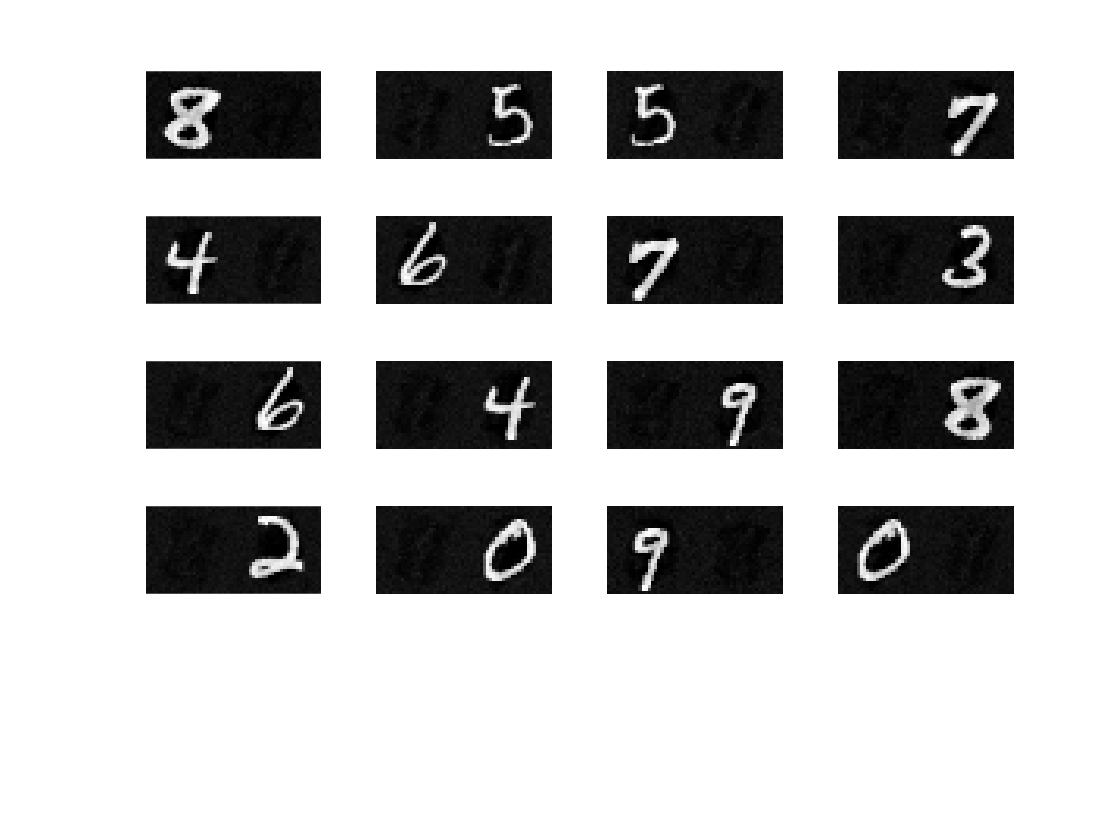
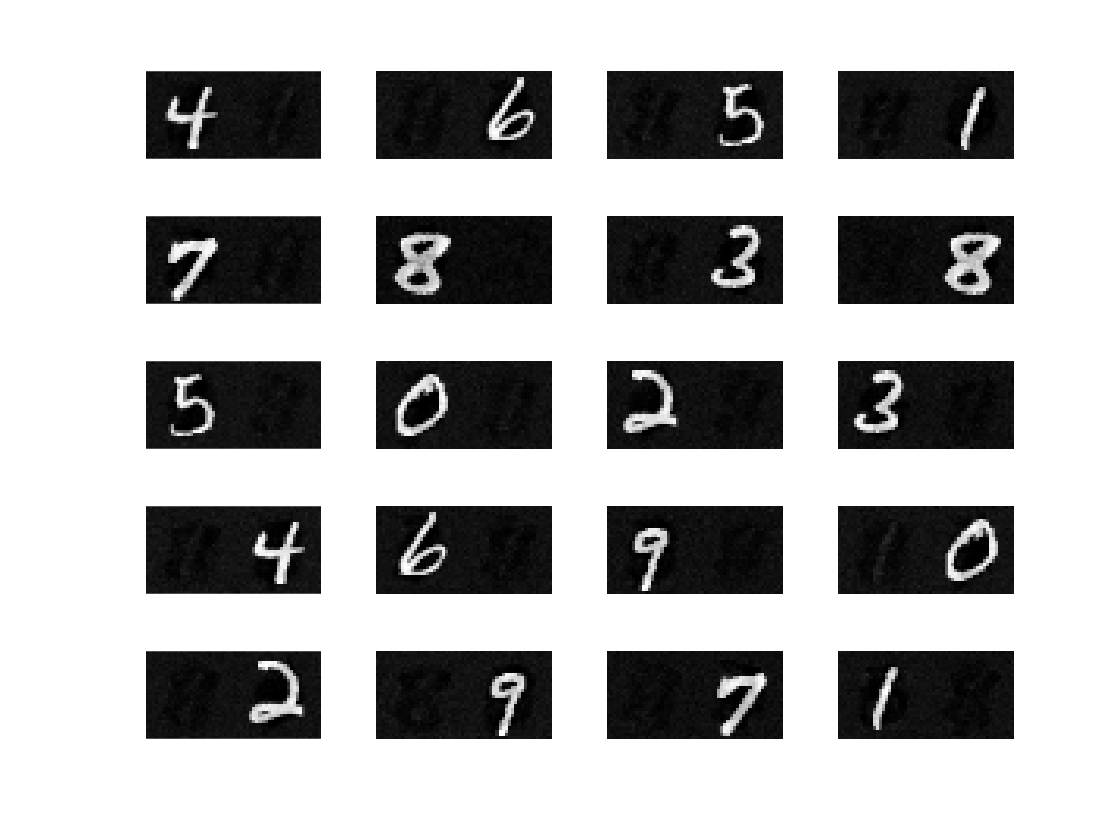
writing

diff --git a/test_release/submission/daming_MNIST_TrainDL.m b/test_release/submission/daming_MNIST_TrainDL.m
@@ -13,12 +13,16 @@ X=X';
 
 %% Create noisy data
 A=[];
+% sigma=0.25;
 sigma=0.25;
+
 for l=1:10
     X1=X+sigma*abs(randn(size(X)));  %--Absolute Gaussian noise
    %X1=X+mat2gray(poissrnd(sigma,size(X))); %--Poisson Noise
     A=[A;X1];
 end
+
+%-%-%-%-%-%-%-%-%-%-%-%-%-%-%-%-%-%-%-%-%-%-%-%-%-%-%-%-%-%-%-%-%-%-%-%-%
 %% UoI_NMF
 %--Parameters
 params.k=20;       % Rank k of the factorization
@@ -41,7 +45,7 @@ nnzH1=median(sum(abs(H1)>0.05,2));
 Aest=W1*H1;
 %%--plot basis and bases quality
 figure()
-for i=1:16
+for i=1:20
     subplot(5,4,i)
      H11(i,:)=mat2gray(H1(i,:));
      imshow((reshape(H11(i,:),[],56)));
@@ -99,7 +103,7 @@ er1=norm(X-Wnew1*H1,'fro')  %% reconstruction error with original data
 param.K=20;  % learns a dictionary with 100 elements
 param.lambda=0.15;
 param.numThreads=-1; % number of threads
-param.batchsize=5;
+param.batchsize=15;
 param.verbose=false;
 
 param.iter=1000;  % let us see what happens after 1000 iterations.
@@ -118,8 +122,10 @@ tic
 t=toc;
 fprintf('time of computation for Dictionary Learning: %f\n',t);
 fprintf('Evaluating cost function...\n');
-alpha=mexLasso(X,D,param);
-R=mean(0.5*sum((X-D*alpha).^2)+param.lambda*sum(abs(alpha)));
+% alpha=mexLasso(X,D,param);
+alpha=mexLasso(A,D,param);
+% R=mean(0.5*sum((X-D*alpha).^2)+param.lambda*sum(abs(alpha)));
+R=mean(0.5*sum((A-D*alpha).^2)+param.lambda*sum(abs(alpha)));
 fprintf('objective function: %f\n',R);
 tic
 
@@ -127,7 +133,7 @@ tic
 figure('Name','2-D MNIST dictionary atoms')
 for i=1:20
 %     fprintf('%d. Hello world!\n', i);
-    subplot(4,5,i)
+    subplot(5,4,i)
     row1matfull = full(reshape(alpha(i,:),[],56));
     imshow(row1matfull);
 end
@@ -138,7 +144,7 @@ Aest=D*alpha;
 alpha = full(alpha);
 %%--plot basis and bases quality
 figure()
-for i=1:16
+for i=1:20
     subplot(5,4,i)
      alpha1(i,:)=mat2gray(alpha(i,:));
      imshow((reshape(alpha1(i,:),[],56)));
@@ -148,6 +154,7 @@ C1=normc(alpha*Hopt');
 [corr1,id1]=max(C1,[],2);
 
 Hl1=[];j1=[];
+k=size(Hopt,1);
 for j=1:k
     i1=find(id1==j);
     if numel(i1)==0
@@ -184,8 +191,8 @@ eer1=norm(A-Aest,'fro') %% reconstruction error with noisy data
 
 
 for l=1:size(X)
-    Wnew1(l,:)= lsqnonneg(H1',X(l,:)')';
+    Wnew1(l,:)= lsqnonneg(alpha',X(l,:)')';
 end
 
-er1=norm(X-Wnew1*H1,'fro')  %% reconstruction error with original data
+er1=norm(X-Wnew1*alpha,'fro')  %% reconstruction error with original data
 return;
